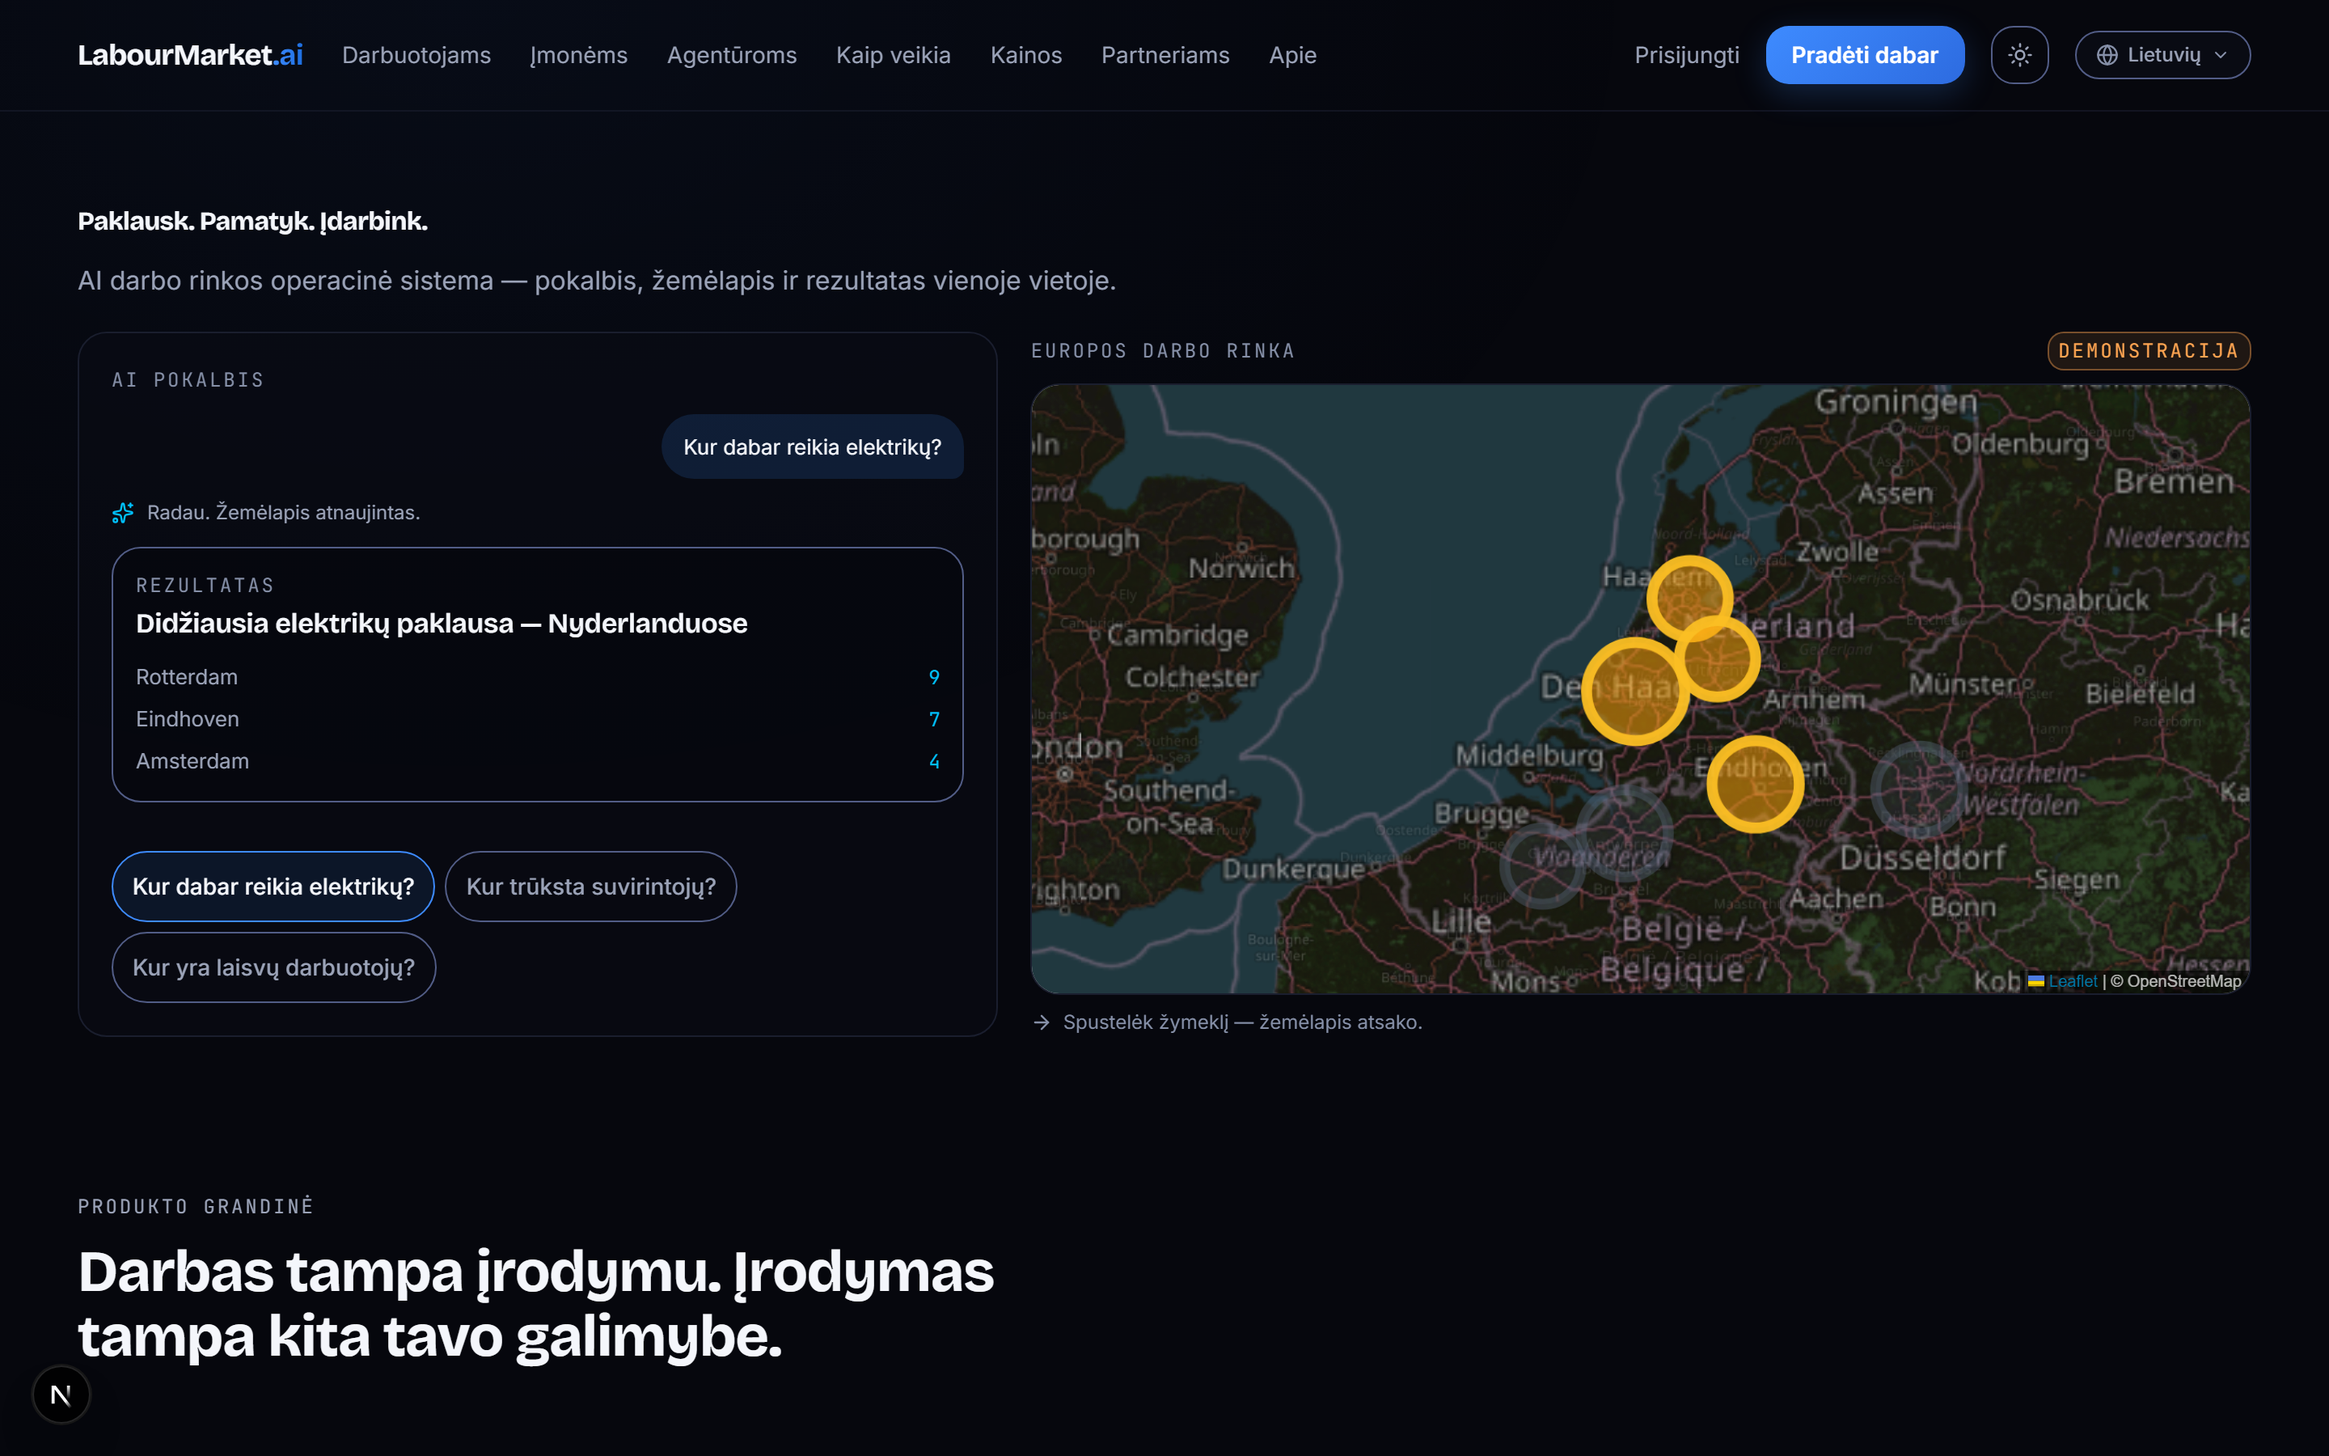
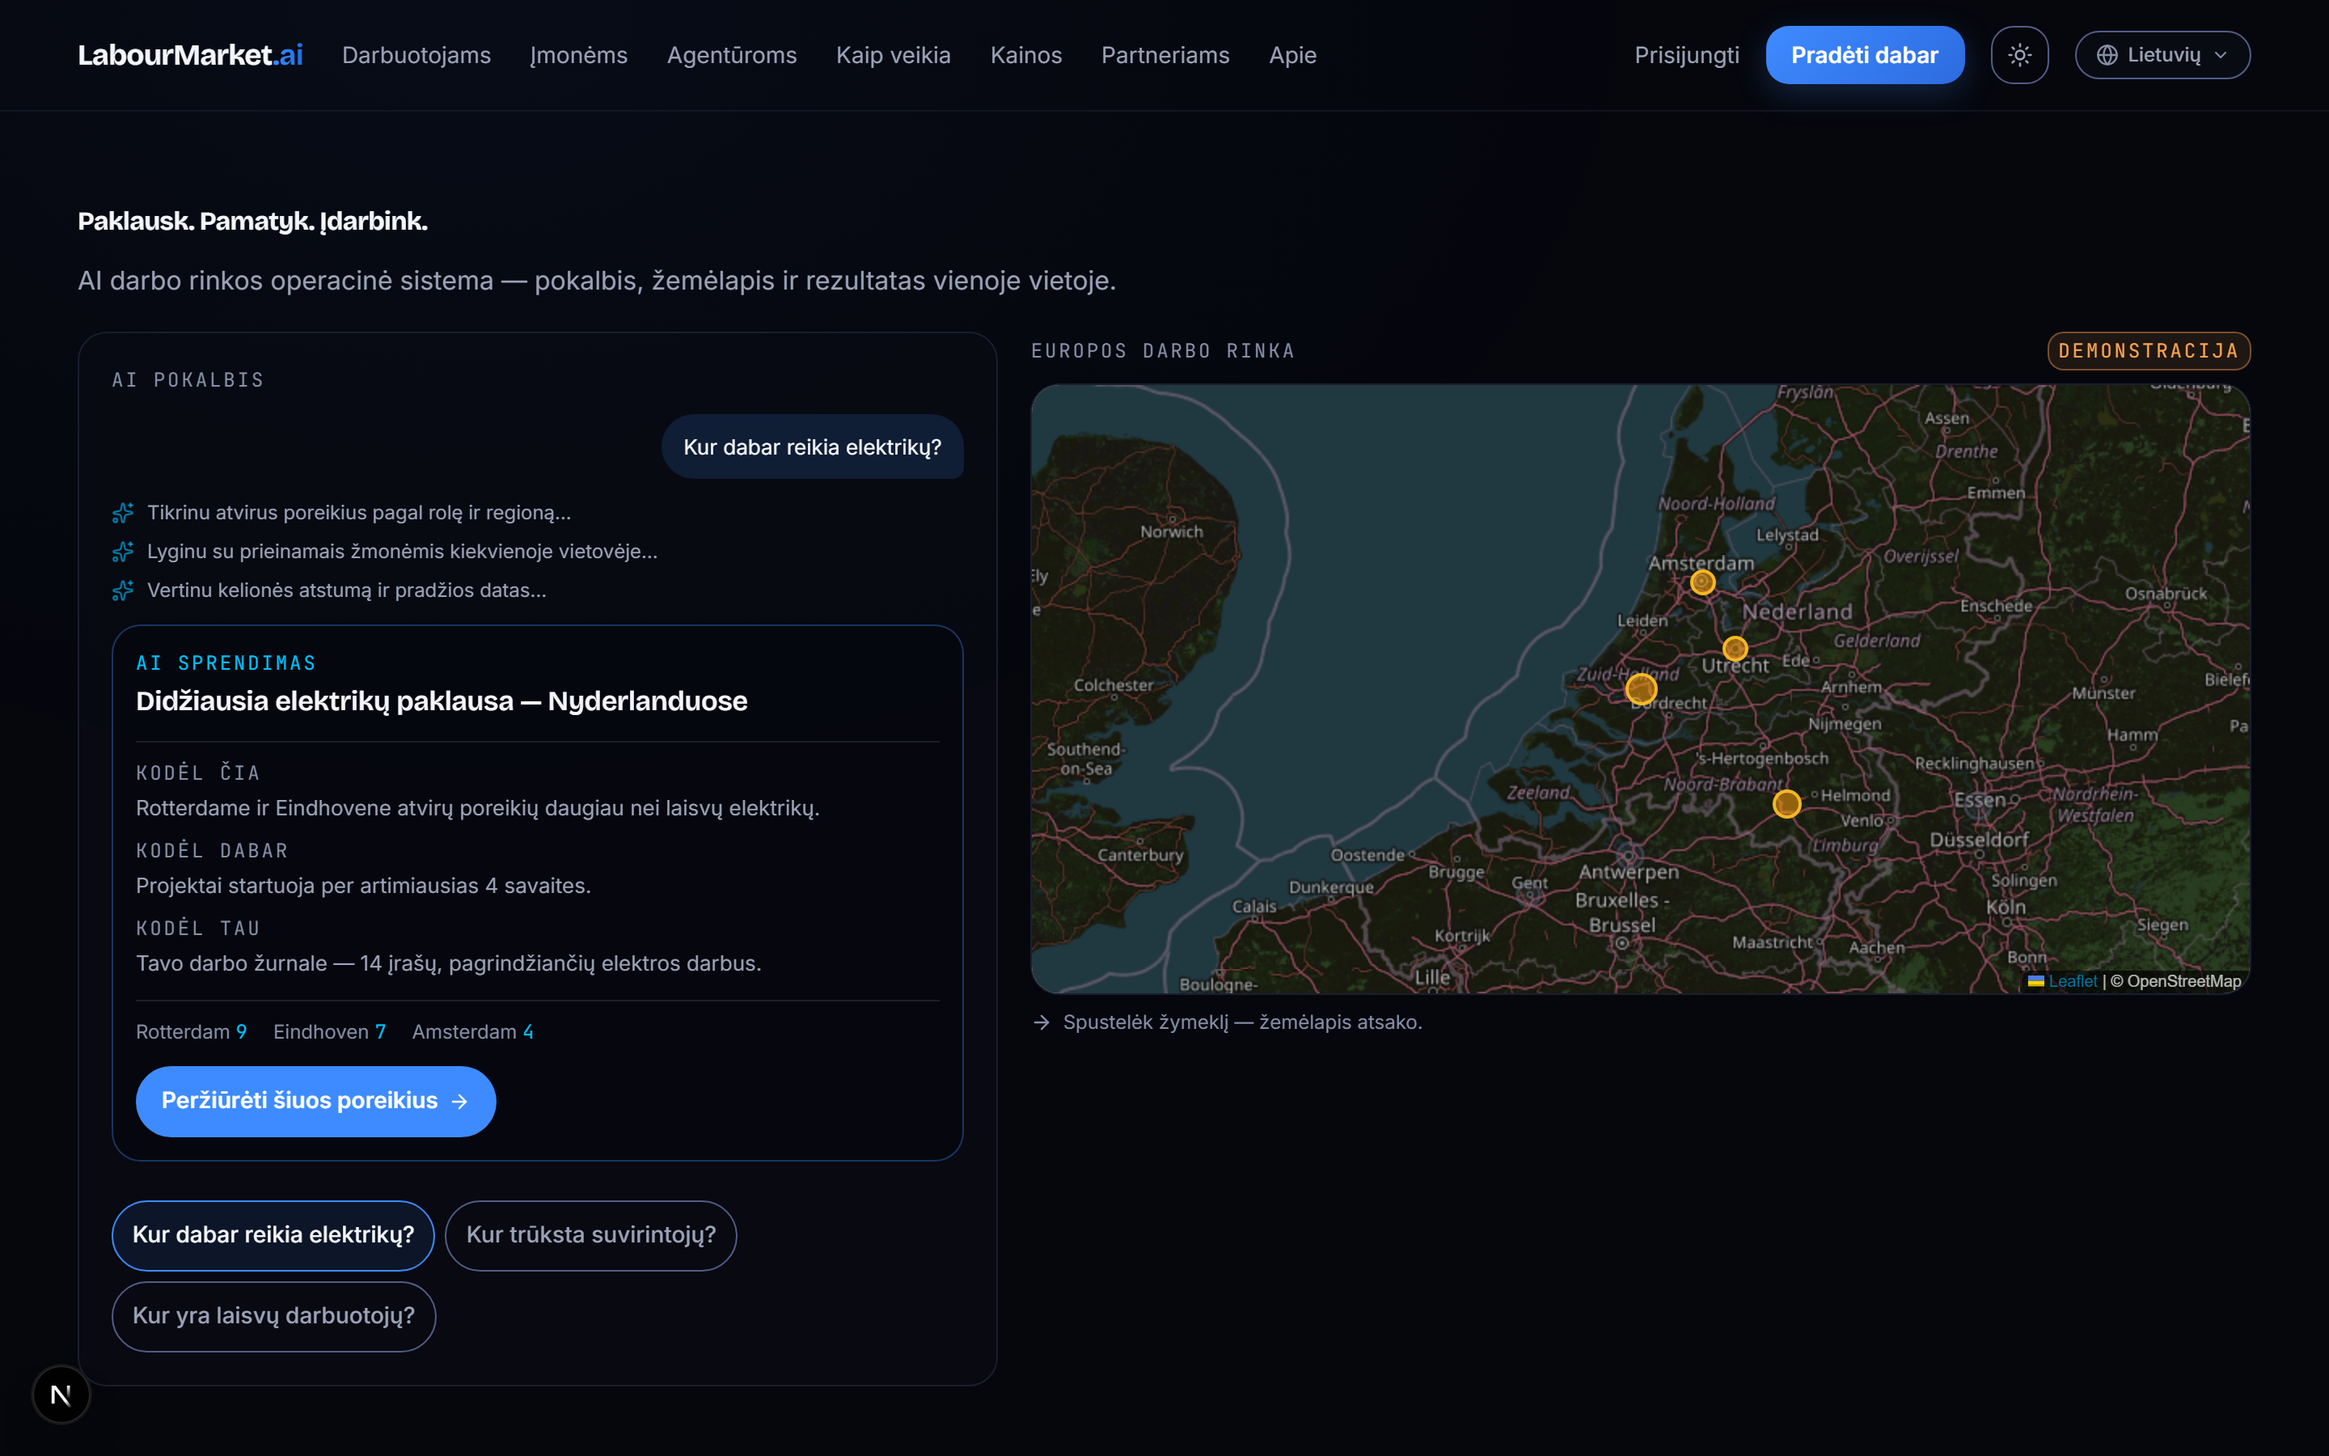
feat(landing): the hero reasons, the market reacts, the AI decides
Owner addendum: the hero must feel alive. Not question -> map -> card, but
question -> reasoning -> market reaction -> explanation -> decision -> action.

AI REASONING is now visible. Three considerations surface one at a time while
the system works ('checking open needs by role and region', 'comparing against
available people', 'weighing travel distance and start dates'). A spinner says
'wait'; these say what is being weighed — that difference is the whole point.

THE MARKET REACTS. MarketMap gained revealCount, so signals land one after
another instead of the full answer blinking into place. The map is visibly
responding rather than repainting.

THE CARD IS A DECISION, not a numeric summary. It answers the four questions a
person actually has — why here, why now, why you — and carries the next action
inline, so the decision is actionable without leaving the hero.

'Why you' reads '14 entries in your work journal backing electrical work',
which is the real acceptance dataset count — the demo and the seeded scenario
tell the same story.

Reduced motion keeps the reasoning AND the decision; only the pacing goes.
Skipping to a bare card would remove exactly the part that makes this a
decision rather than a number.

Two defects found in my own output and fixed: the reacting line rendered
'0 signals' before any signal existed, and the capture fired at 3.2s while the
decision lands at ~3.5s, so the evidence showed a half-finished thought.

tsc clean, eslint clean.

Changed region(s): [[0.4375, 0.2489, 0.9688, 0.6844], [0.0312, 0.3422, 0.4375, 0.9333]]

diff --git a/apps/web/components/marketing/hero-live-demo.tsx b/apps/web/components/marketing/hero-live-demo.tsx
@@ -4,6 +4,8 @@ import { useCallback, useEffect, useRef, useState } from "react";
 import { useTranslations } from "next-intl";
 import { ArrowRight, Sparkles } from "lucide-react";
 
+import { Link } from "@/lib/i18n/navigation";
+
 import { MarketMap } from "@/components/app/market-map/market-map";
 import {
   LANDING_SCENARIOS,
@@ -30,17 +32,29 @@ import { topRegion } from "@/components/app/market-map/market-map-model";
  * the reading it is supposed to support, and `prefers-reduced-motion` skips
  * straight to the settled end state.
  */
-type Phase = "idle" | "typing" | "thinking" | "revealed";
+/**
+ * The felt sequence is NOT question -> map -> card. It is:
+ *
+ *   question -> AI reasoning -> market reaction -> explanation -> decision -> action
+ *
+ * `reasoning` surfaces WHAT is being weighed (a spinner only says "wait");
+ * `reacting` lands the market signals one by one so the map is visibly
+ * responding; `decided` states a decision that answers why here, why now, why
+ * you, and what to do next — with the action available immediately.
+ */
+type Phase = "idle" | "typing" | "reasoning" | "reacting" | "decided";
 
 export function HeroLiveDemo() {
   const t = useTranslations("landing.hero");
   const [index, setIndex] = useState(0);
   const [phase, setPhase] = useState<Phase>("idle");
   const [typed, setTyped] = useState("");
+  const [steps, setSteps] = useState(0);
+  const [reveal, setReveal] = useState(0);
   const timers = useRef<ReturnType<typeof setTimeout>[]>([]);
 
   const scenario: LandingScenario = LANDING_SCENARIOS[index];
-  const revealed = phase === "revealed";
+  const decided = phase === "decided";
 
   const clearTimers = useCallback(() => {
     timers.current.forEach(clearTimeout);
@@ -62,20 +76,49 @@ export function HeroLiveDemo() {
         window.matchMedia?.("(prefers-reduced-motion: reduce)").matches;
 
       if (reduced) {
-        // Reduced motion still gets the ANSWER — only the theatre is skipped.
+        // Reduced motion still gets the REASONING and the DECISION — only the
+        // pacing is removed. Skipping to a bare card would hide the part that
+        // makes this a decision rather than a number.
         setTyped(text);
-        setPhase("revealed");
+        setSteps(LANDING_SCENARIOS[i].reasoningKeys.length);
+        setReveal(Number.POSITIVE_INFINITY);
+        setPhase("decided");
         return;
       }
 
       setTyped("");
+      setSteps(0);
+      setReveal(0);
       setPhase("typing");
-      const step = 28;
+
+      const step = 26;
+      const typeMs = text.length * step;
       for (let c = 1; c <= text.length; c += 1) {
         after(c * step, () => setTyped(text.slice(0, c)));
       }
-      after(text.length * step + 260, () => setPhase("thinking"));
-      after(text.length * step + 1250, () => setPhase("revealed"));
+
+      // AI reasoning — one visible consideration at a time.
+      const reasons = LANDING_SCENARIOS[i].reasoningKeys;
+      after(typeMs + 200, () => setPhase("reasoning"));
+      reasons.forEach((_, r) => {
+        after(typeMs + 320 + r * 520, () => setSteps(r + 1));
+      });
+
+      // Market reaction — signals land one after another.
+      const reasonMs = typeMs + 320 + reasons.length * 520;
+      const total = LANDING_SCENARIOS[i].view.regions.reduce(
+        (n, reg) =>
+          n +
+          reg.anchors.filter((a) => a.layer === LANDING_SCENARIOS[i].layer)
+            .length,
+        0,
+      );
+      after(reasonMs, () => setPhase("reacting"));
+      for (let k = 1; k <= total; k += 1) {
+        after(reasonMs + k * 150, () => setReveal(k));
+      }
+
+      after(reasonMs + total * 150 + 420, () => setPhase("decided"));
     },
     [after, clearTimers, t],
   );
@@ -108,39 +151,81 @@ export function HeroLiveDemo() {
             ) : null}
           </div>
 
-          {phase === "thinking" || revealed ? (
-            <div className="flex items-center gap-2 text-meta text-text-secondary">
-              <Sparkles className="size-3.5 shrink-0 text-brand-cyan" aria-hidden />
-              {phase === "thinking" ? t("thinking") : t("answered")}
-            </div>
+          {/* AI REASONING — what is being weighed, not a spinner. */}
+          {steps > 0 ? (
+            <ul className="flex flex-col gap-1.5" data-testid="hero-reasoning">
+              {scenario.reasoningKeys.slice(0, steps).map((k, i) => (
+                <li
+                  key={k}
+                  className="flex items-start gap-2 text-meta text-text-secondary"
+                >
+                  <Sparkles
+                    className={`mt-0.5 size-3.5 shrink-0 ${
+                      i === steps - 1 && !decided
+                        ? "animate-pulse text-brand-cyan"
+                        : "text-brand-cyan/60"
+                    }`}
+                    aria-hidden
+                  />
+                  <span>{t(`reason.${k}`)}</span>
+                </li>
+              ))}
+            </ul>
           ) : null}
 
-          {revealed && region ? (
+          {/* MARKET REACTION — stated while the signals are landing. */}
+          {phase === "reacting" && reveal > 0 ? (
+            <p className="text-meta text-brand-cyan" data-testid="hero-reacting">
+              {t("reacting", { count: reveal })}
+            </p>
+          ) : null}
+
+          {/* THE DECISION — why here, why now, why you, what next. */}
+          {decided && region ? (
             <div
-              className="rounded-card border border-ink-500 bg-ink-900/70 p-3.5"
+              className="rounded-card border border-brand-blue/35 bg-ink-900/70 p-3.5"
               data-testid="hero-result-card"
             >
-              <p className="font-mono text-meta uppercase tracking-label text-text-muted">
-                {t("resultLabel")}
+              <p className="font-mono text-meta uppercase tracking-label text-brand-cyan">
+                {t("decisionLabel")}
               </p>
               <p className="mt-1 font-display text-card-title font-semibold text-text-primary">
                 {t(`result.${scenario.resultKey}`)}
               </p>
-              <ul className="mt-2.5 flex flex-col gap-1.5">
+
+              <dl className="mt-3 flex flex-col gap-2 border-t border-ink-600 pt-2.5">
+                {(["whyHere", "whyNow", "whyYou"] as const).map((k) => (
+                  <div key={k} className="flex flex-col gap-0.5">
+                    <dt className="font-mono text-meta uppercase tracking-label text-text-muted">
+                      {t(`decisionField.${k}`)}
+                    </dt>
+                    <dd className="text-basis text-text-secondary">
+                      {t(`decision.${scenario.decisionKey}.${k}`)}
+                    </dd>
+                  </div>
+                ))}
+              </dl>
+
+              <ul className="mt-3 flex flex-wrap gap-x-4 gap-y-1 border-t border-ink-600 pt-2.5">
                 {region.anchors.slice(0, 3).map((a) => (
-                  <li
-                    key={a.id}
-                    className="flex items-baseline justify-between gap-3 text-basis"
-                  >
-                    <span className="min-w-0 truncate text-text-secondary">
-                      {a.label}
-                    </span>
-                    <span className="shrink-0 font-mono text-meta text-brand-cyan">
-                      {a.weight}
-                    </span>
+                  <li key={a.id} className="text-meta text-text-muted">
+                    {a.label}{" "}
+                    <span className="font-mono text-brand-cyan">{a.weight}</span>
                   </li>
                 ))}
               </ul>
+
+              {/* IMMEDIATE ACTION — the decision is actionable right here. */}
+              <Link
+                // Locale-aware: a hardcoded /lt/ would send every other locale
+                // to the wrong place.
+                href="/auth/signup"
+                data-testid="hero-next-action"
+                className="mt-3 inline-flex min-h-11 items-center gap-1.5 rounded-full bg-brand-blue px-4 text-support font-semibold text-white transition-opacity hover:opacity-90"
+              >
+                {t(`decision.${scenario.decisionKey}.next`)}
+                <ArrowRight className="size-3.5 shrink-0" aria-hidden />
+              </Link>
             </div>
           ) : null}
         </div>
@@ -186,7 +271,10 @@ export function HeroLiveDemo() {
           view={scenario.view}
           mode="landing"
           layer={scenario.layer}
-          selectedCode={revealed ? scenario.focusCode : null}
+          selectedCode={
+            phase === "reacting" || decided ? scenario.focusCode : null
+          }
+          revealCount={reveal}
         />
 
         <p className="flex items-center gap-1.5 text-meta text-text-muted">

diff --git a/apps/web/components/app/market-map/market-map.tsx b/apps/web/components/app/market-map/market-map.tsx
@@ -45,6 +45,7 @@ export function MarketMap({
   selectedCode = null,
   onSelectRegion,
   className = "",
+  revealCount,
 }: {
   view: MarketMapView;
   mode?: MarketMapMode;
@@ -53,6 +54,15 @@ export function MarketMap({
   selectedCode?: string | null;
   onSelectRegion?: (code: string | null) => void;
   className?: string;
+  /**
+   * How many anchors are currently drawn, counted across the whole view.
+   *
+   * The market REACTING is the point: signals land one after another rather
+   * than the full answer blinking into place, which is what makes the hero read
+   * as a system working instead of an image loading. Leave undefined to draw
+   * everything at once (the authenticated surfaces do).
+   */
+  revealCount?: number;
 }) {
   const hostRef = useRef<HTMLDivElement>(null);
   const mapRef = useRef<LeafletTypes.Map | null>(null);
@@ -109,11 +119,16 @@ export function MarketMap({
 
     group.clearLayers();
 
+    let drawn = 0;
+    const limit = revealCount ?? Number.POSITIVE_INFINITY;
+
     for (const region of view.regions) {
       const anchors = anchorsForLayer(region, layer);
       const dimmed = selectedCode !== null && selectedCode !== region.code;
 
       for (const a of anchors) {
+        if (drawn >= limit) break;
+        drawn += 1;
         // Radius encodes the aggregate. sqrt keeps a 20-person anchor from
         // rendering 20x the area of a 1-person anchor — area, not radius, is
         // what the eye reads as quantity.
@@ -140,7 +155,7 @@ export function MarketMap({
         circle.addTo(group);
       }
     }
-  }, [ready, view, layer, selectedCode, onSelectRegion]);
+  }, [ready, view, layer, selectedCode, onSelectRegion, revealCount]);
 
   // ── fly to the selected region ────────────────────────────────────────────
   useEffect(() => {

diff --git a/apps/web/components/app/market-map/landing-scenario.ts b/apps/web/components/app/market-map/landing-scenario.ts
@@ -50,6 +50,20 @@ export interface LandingScenario {
   readonly view: MarketMapView;
   /** i18n key for the result card headline. */
   readonly resultKey: string;
+  /**
+   * The AI's REASONING, surfaced step by step while it works.
+   *
+   * A spinner says "wait"; these say WHAT is being weighed. That difference is
+   * the whole point of the hero: the visitor should watch the system think,
+   * not watch a loading state. Keys under `landing.hero.reason`.
+   */
+  readonly reasoningKeys: readonly string[];
+  /**
+   * The DECISION, not a numeric summary. Every result answers the four
+   * questions a person actually has: why this place, why now, why me, and what
+   * to do next. Keys under `landing.hero.decision`.
+   */
+  readonly decisionKey: string;
 }
 
 const NL_ELECTRICIANS: MarketMapView = {
@@ -160,6 +174,8 @@ export const LANDING_SCENARIOS: readonly LandingScenario[] = [
     layer: "demand",
     view: NL_ELECTRICIANS,
     resultKey: "r1",
+    reasoningKeys: ["r1a", "r1b", "r1c"],
+    decisionKey: "d1",
   },
   {
     id: "welders-nordic",
@@ -168,6 +184,8 @@ export const LANDING_SCENARIOS: readonly LandingScenario[] = [
     layer: "demand",
     view: NORDIC_WELDERS,
     resultKey: "r2",
+    reasoningKeys: ["r2a", "r2b", "r2c"],
+    decisionKey: "d2",
   },
   {
     id: "people-baltic",
@@ -176,5 +194,7 @@ export const LANDING_SCENARIOS: readonly LandingScenario[] = [
     layer: "people",
     view: BALTIC_PEOPLE,
     resultKey: "r3",
+    reasoningKeys: ["r3a", "r3b", "r3c"],
+    decisionKey: "d3",
   },
 ];
